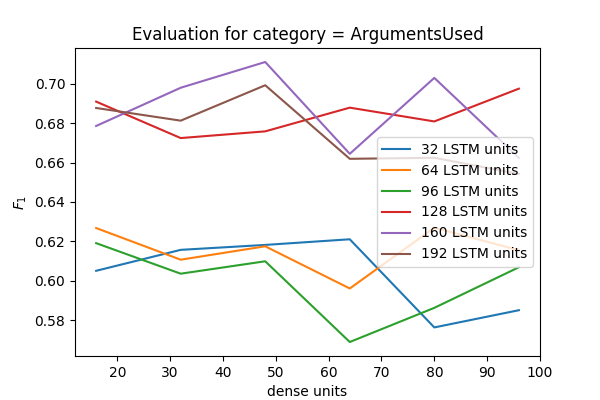
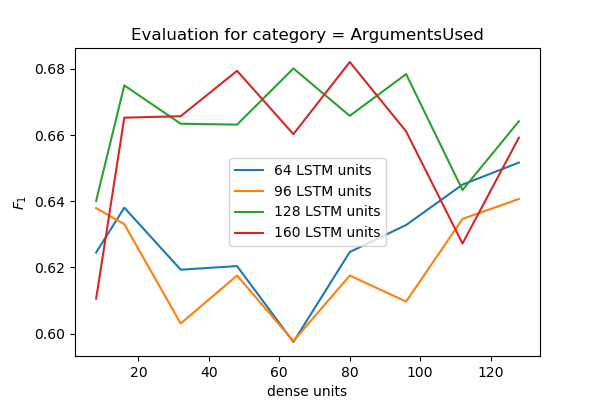
hyper param evaluation

diff --git a/doc/report.tex b/doc/report.tex
@@ -151,12 +151,18 @@ This model we call \textit{Single-Model} and it is similar to Figure~\ref{fig:mo
 
 \subsection{Hyper Parameters}
 
-The hyper parameters of our model are justified by a search over a range of values, shown in Figure~\ref{fig:hyper_params}. We completed a full training with each set of parameters. Finally the best model measured by $F_1$ score is applied. A first impression was that out model performs well in the \textit{Arguments Used} category, so we concentrated to optimize for that category.
+The hyper parameters of our model are justified by a search over a range of values, shown in Figure~\ref{fig:hyper_params}. 
+We completed a full training with each set of parameters. Finally the best model measured by $F_1$ score on the validation set is applied. 
+A first impression was that out model performs well in the \textit{Arguments Used} category, so we concentrated to optimize for that category.
 
-...\todo{Graph comparing different training parameters}
+The training results are evaluated on two different systems and averaged over a total of six runs. 
+Not shown in Figure~\ref{fig:hyper_params} is data we've collected for 32 and 192 LSTM units as well, because these don't contribute to our conclusion. 
+We have chosen 128 LSTM units (having this bidirectional results in 256 trainable parameters) and 64 dense units, because we consider that peak as more  
+noticeable compared to the 160 LSTM curve, it had a smaller standard deviation and we preferred to have fewer parameters.
+
 \begin{figure}[h!]
 	\centering
-	TODO
+	\includegraphics[trim={0.1cm 0cm 0.7cm 0.7cm},clip,width=0.5\textwidth]{img/training_meta}
 	\caption{Search for best model based on different hyper parameters}
 	\label{fig:hyper_params}
 \end{figure}

diff --git a/training_meta.py b/training_meta.py
@@ -13,7 +13,7 @@ import matplotlib.pyplot as plt
 import corpus
 
 lstm_out_list = [32, 64, 96, 128, 160, 192]
-dense_units_list = [16, 32, 48, 64, 80, 96]
+dense_units_list = [8, 16, 32, 48, 64, 80, 96, 112, 128]
 repeats = 3
 
 def all_categories(epochs=50):
@@ -112,15 +112,18 @@ def graph():
     data = np.loadtxt(csv_file, delimiter=',', skiprows=1)
     plt.figure('training meta', figsize=(6, 4))
     plt.title('Evaluation for category = ''ArgumentsUsed''')
-    for lstm_out in lstm_out_list:
+    for lstm_out in [64, 96, 128, 160]: # don't overload graph with lstm_out_list:
         graph_x = []
         graph_y = []
+        graph_e = []
         lstm_data = data[data[:,0] == lstm_out]
         for dense_units in dense_units_list:
             dense_data = lstm_data[lstm_data[:,1] == dense_units]
             graph_x.append(dense_units)
             graph_y.append(np.mean(dense_data[:,2]))
+            graph_e.append(np.std(dense_data[:,2]))
         plt.plot(graph_x, graph_y, label=f'{lstm_out} LSTM units')
+        # plt.errorbar(graph_x, graph_y, yerr=graph_e, label=f'{lstm_out} LSTM units')
     plt.xlabel('dense units')
     plt.ylabel('$F_1$')
     plt.legend()
